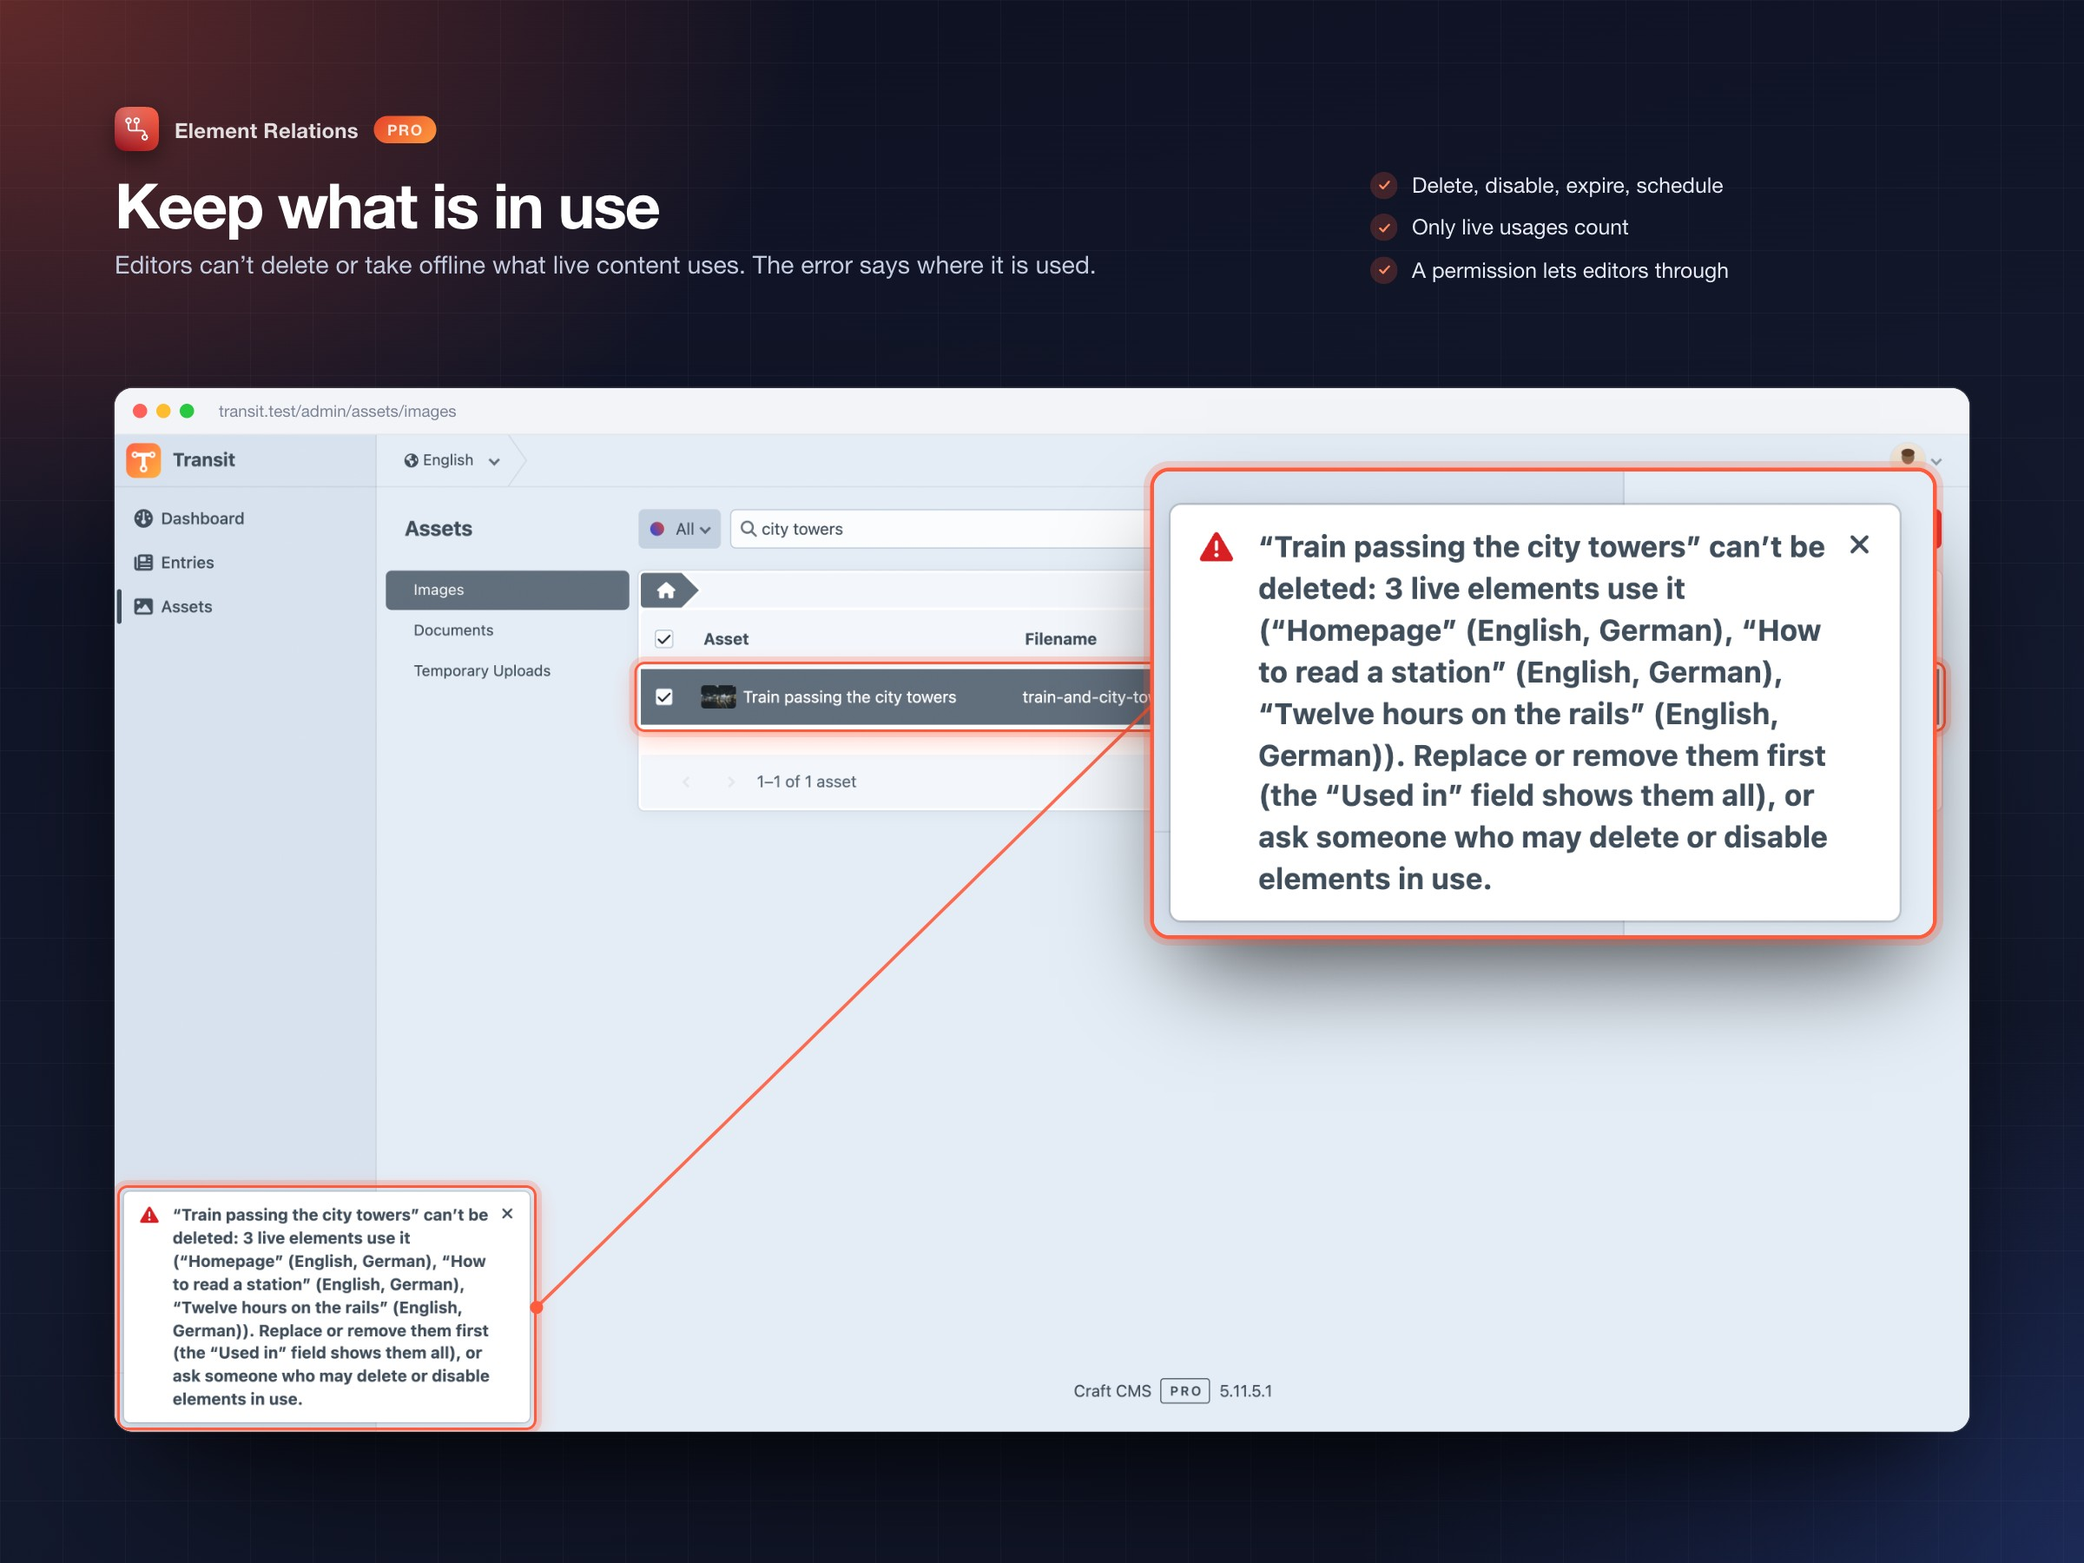
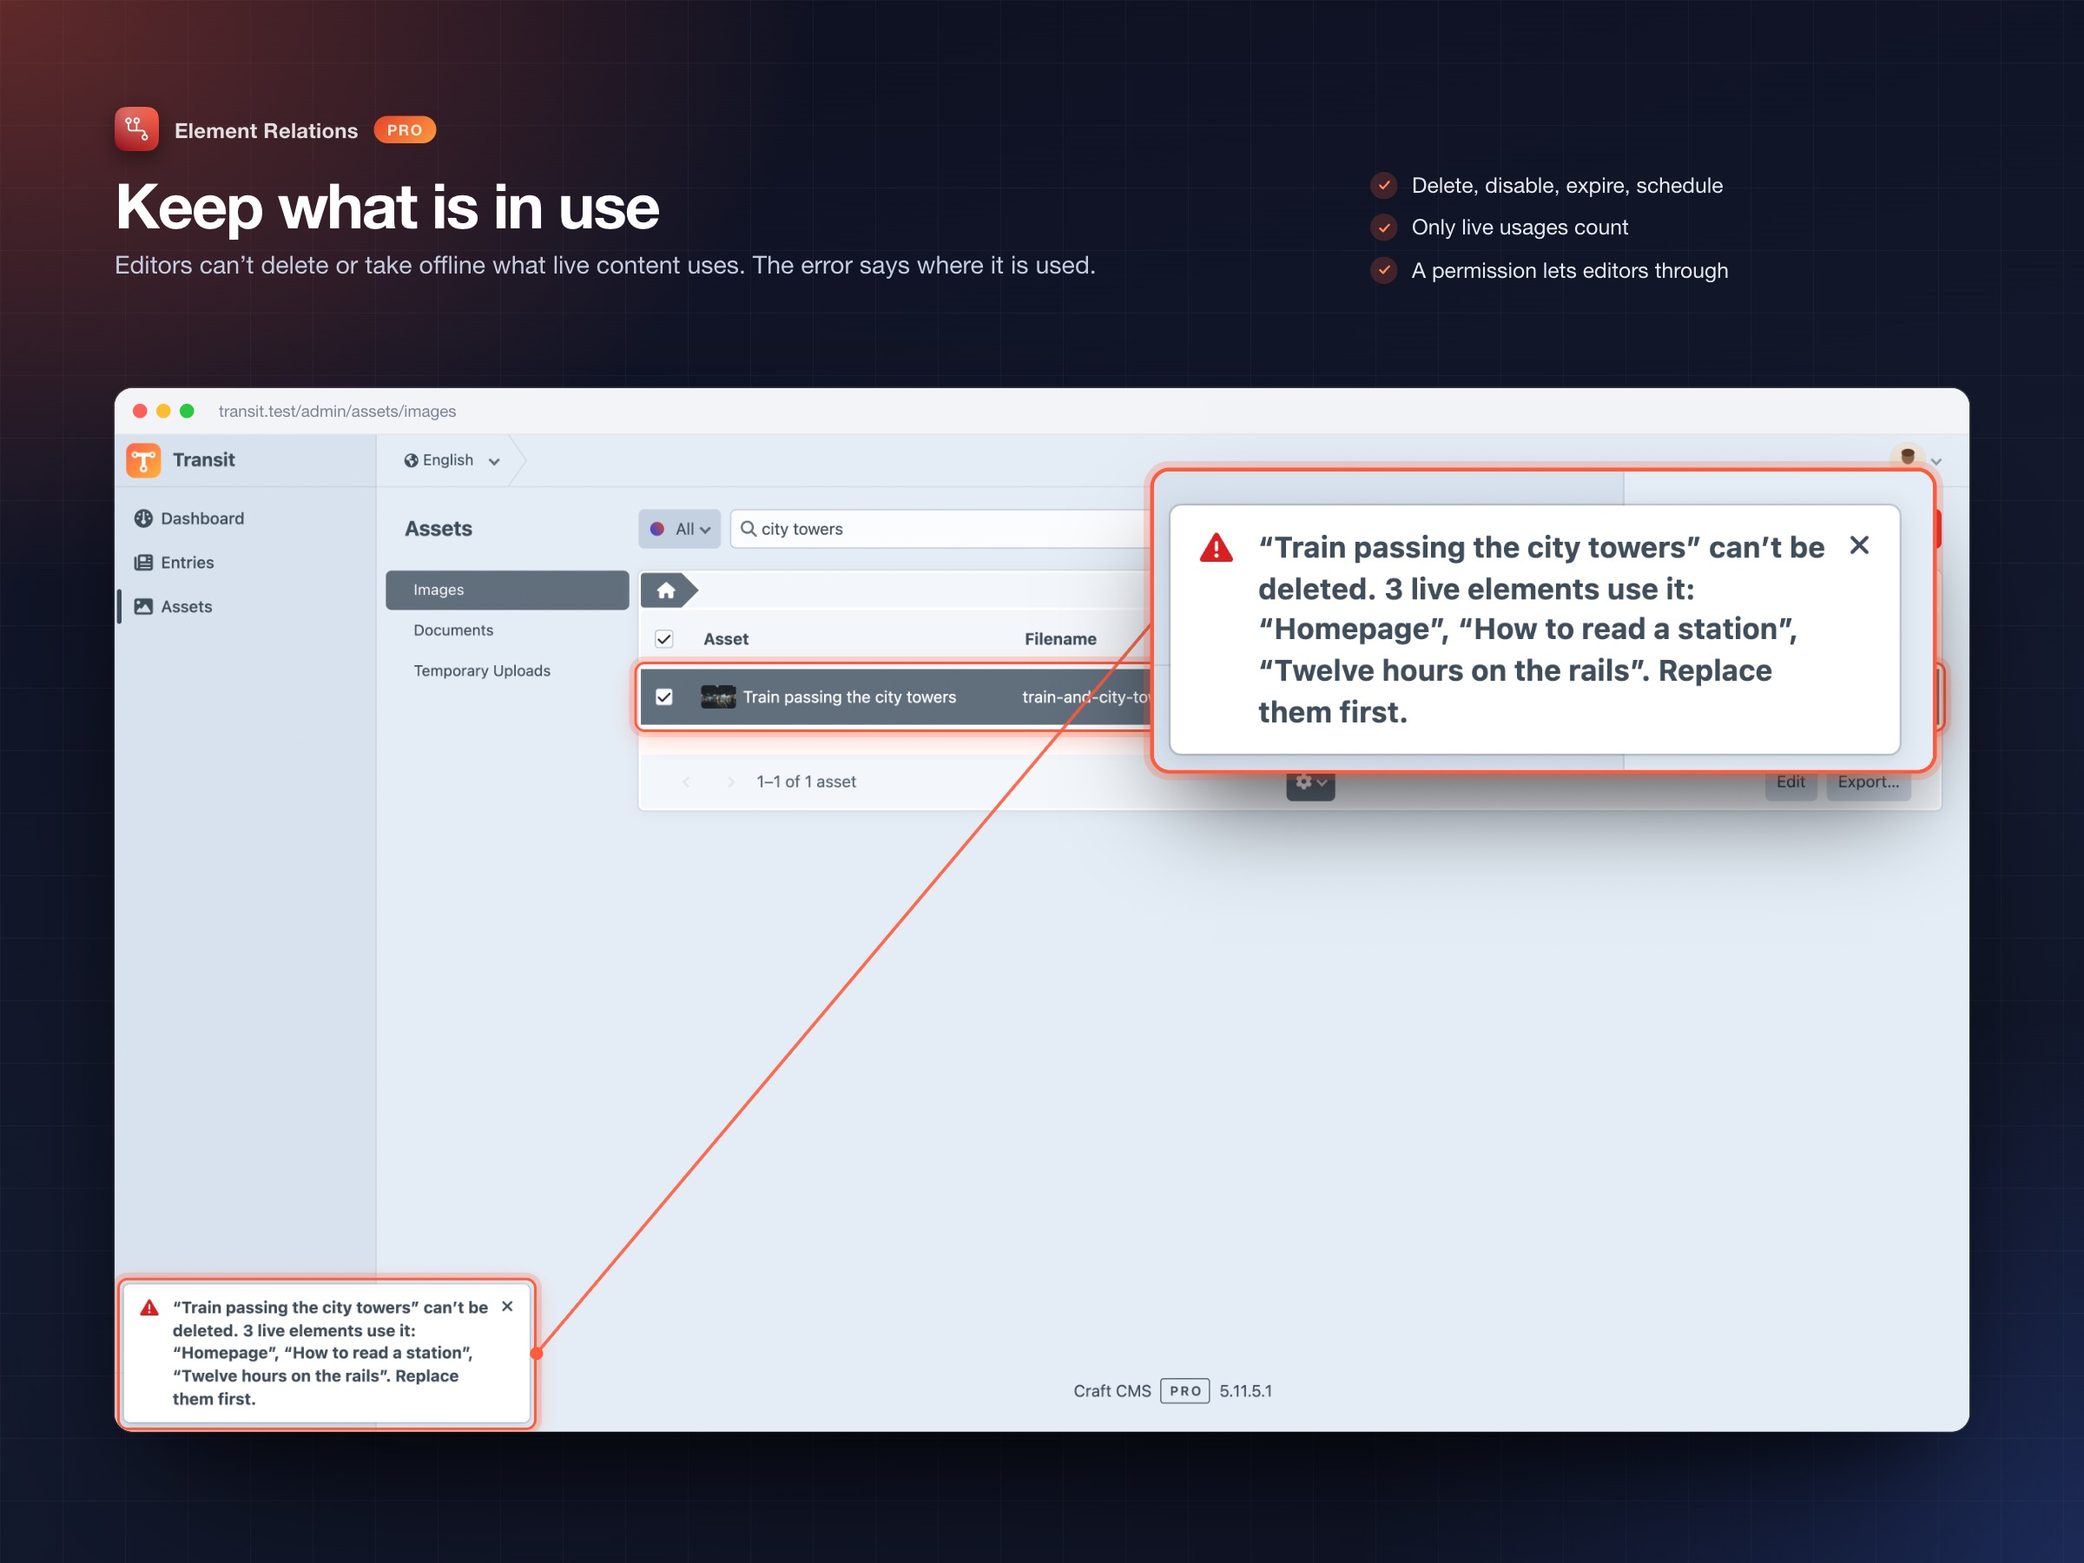
In use: shorter messages, no site after every title
The guard's errors and the delete dialog said, per title, which sites use the
element, plus a long hint; a refused disable of Hong Kong ran to six lines. Now
two sentences: what can't happen, how many live elements use it and up to three
titles (two and "and N more" when there are more), then "Replace them first."
The count already counts elements once; the site is named when the message is
about one site, and the "Used in" field lists every usage with its sites.

Claude-Session: https://claude.ai/code/session_01R6Zbz4iFYsKmuaYbTKEoLc

diff --git a/src/services/InUseGuard.php b/src/services/InUseGuard.php
@@ -26,8 +26,8 @@ use internetztube\elementRelations\models\RelationsModel;
  */
 class InUseGuard
 {
-    /** Titles named in the message. */
-    private const NAMED = 3;
+    /** Titles named in a message: all of them up to this many, else one less and “and N more”. */
+    public const NAMED = 3;
 
     public static function register(): void
     {
@@ -113,22 +113,20 @@ class InUseGuard
     }
 
     /**
-     * Live usages of the element: the number of places using it (an element in one of its sites; a page in English and
-     * German is two) and the first few, named with their site on multi-site installs. With a site, only the usages in
-     * that site (a disable for one site); plugin settings count for the element as a whole.
-     * @return array{count: int, titles: list<string>} titles quoted, e.g. “Travel slowly” (English)
+     * Live usages of the element: how many elements use it (each once, whatever sites it uses it in) and the first few
+     * titles. With a site, only the usages in that site (a disable for one site); plugin settings count for the element
+     * as a whole. The sites are left out of the titles: the message names the site when it is about one, and the
+     * "Used in" field lists every usage with its sites.
+     * @return array{count: int, titles: list<string>} titles quoted, e.g. “Travel slowly”
      */
     public static function liveUsages(ElementInterface $element, ?int $siteId = null): array
     {
         $model = (new RelationsModel((int)($element->getCanonicalId() ?? $element->id), (int)$element->siteId))
             ->withQueryFactory(fn(string $type): mixed => $type::find()); // Craft's defaults: live entries, enabled elements, no drafts
         $siteIds = $siteId === null ? [] : [$siteId];
-        $multiSite = Craft::$app->getIsMultiSite();
         $titles = [];
         foreach ($model->getElementsIterator($siteIds, self::NAMED) as $usage) {
-            // each element once; the sites it uses the element in, from the cache
-            $sites = $siteId === null ? self::siteNames($model->getElementId(), (int)$usage->id) : [$usage->getSite()->getName()];
-            $titles[] = '“' . $usage . '”' . ($multiSite ? ' (' . implode(', ', $sites) . ')' : '');
+            $titles[] = '“' . $usage . '”';
         }
         $global = $siteId === null ? $model->getGlobalUsages() : [];
         foreach (array_slice($global, 0, max(0, self::NAMED - count($titles))) as $usage) {
@@ -144,19 +142,16 @@ class InUseGuard
     }
 
     /**
-     * The names of the sites $ownerId uses $targetId in, in the sites' order.
-     * ponytail: the cache row, not the owner's status per site; an owner disabled in one site still names it
-     * @return list<string>
+     * The usages for a message: all titles when there are at most NAMED, else the first NAMED - 1 and “and N more”, so
+     * it never says “and 1 more” where the title would fit.
+     * @param list<string> $titles
      */
-    private static function siteNames(int $targetId, int $ownerId): array
+    public static function names(array $titles, int $count): string
     {
-        $siteIds = array_map(intval(...), (new \craft\db\Query())->select(['sourceSiteId'])->distinct()
-            ->from('{{%elementrelations_cache}}')->where(['targetElementId' => $targetId, 'sourcePrimaryOwnerId' => $ownerId])->column());
-        $names = [];
-        foreach (Craft::$app->getSites()->getAllSites() as $site) {
-            if (in_array((int)$site->id, $siteIds, true)) {
-                $names[] = $site->getName();
-            }
+        $shown = $count <= self::NAMED ? array_slice($titles, 0, self::NAMED) : array_slice($titles, 0, self::NAMED - 1);
+        $names = implode(', ', $shown);
+        if ($count > count($shown)) {
+            $names .= ' ' . Craft::t('element-relations', 'in-use-more', ['count' => $count - count($shown)]);
         }
         return $names;
     }
@@ -219,15 +214,11 @@ class InUseGuard
         if ($usages['count'] === 0) {
             return null;
         }
-        $names = implode(', ', $usages['titles']);
-        if ($usages['count'] > count($usages['titles'])) {
-            $names .= ' ' . Craft::t('element-relations', 'in-use-more', ['count' => $usages['count'] - count($usages['titles'])]);
-        }
         return Craft::t('element-relations', $key, [
             'element' => (string)$element,
             'count' => $usages['count'],
-            'names' => $names,
+            'names' => self::names($usages['titles'], $usages['count']),
             'site' => $siteId !== null ? (string)Craft::$app->getSites()->getSiteById($siteId)?->getName() : '',
-        ]) . ' ' . Craft::t('element-relations', 'in-use-hint');
+        ]) . ' ' . Craft::t('element-relations', 'in-use-hint', ['count' => $usages['count']]);
     }
 }

diff --git a/src/translations/en/element-relations.php b/src/translations/en/element-relations.php
@@ -83,17 +83,17 @@ return [
     'replace-button-title' => 'Element Relations: replace the element in the ticked elements',
     'permission-in-use' => 'Delete or disable elements that are in use',
     'permission-in-use-info' => 'Without it, elements that live content uses (visitors see it) can’t be deleted, disabled, expired or scheduled.',
-    'in-use-delete' => '“{element}” can’t be deleted: {count, plural, =1{one live element uses} other{# live elements use}} it ({names}).',
-    'in-use-disable' => '“{element}” can’t be disabled: {count, plural, =1{one live element uses} other{# live elements use}} it ({names}).',
-    'in-use-disable-site' => '“{element}” can’t be disabled for {site}: {count, plural, =1{one live element uses} other{# live elements use}} it there ({names}).',
-    'in-use-delete-site' => '“{element}” can’t be deleted for {site}: {count, plural, =1{one live element uses} other{# live elements use}} it there ({names}).',
-    'in-use-expire' => '“{element}” can’t expire yet: {count, plural, =1{one live element uses} other{# live elements use}} it ({names}).',
-    'in-use-schedule' => '“{element}” can’t be scheduled for later: {count, plural, =1{one live element uses} other{# live elements use}} it ({names}).',
-    'in-use-blocker-summary' => '{count, plural, =1{One live element uses} other{# live elements use}} the {numTargets, plural, =1{{type}} other{{types}}} (what visitors see): {names}.',
-    'in-use-blocker-not-allowed' => 'Replace them first; deleting it anyway needs the “Delete or disable elements that are in use” permission.',
+    'in-use-delete' => '“{element}” can’t be deleted. {count, plural, =1{One live element uses it} other{# live elements use it}}: {names}.',
+    'in-use-disable' => '“{element}” can’t be disabled. {count, plural, =1{One live element uses it} other{# live elements use it}}: {names}.',
+    'in-use-disable-site' => '“{element}” can’t be disabled for {site}. {count, plural, =1{One live element uses it there} other{# live elements use it there}}: {names}.',
+    'in-use-delete-site' => '“{element}” can’t be deleted for {site}. {count, plural, =1{One live element uses it there} other{# live elements use it there}}: {names}.',
+    'in-use-expire' => '“{element}” can’t expire yet. {count, plural, =1{One live element uses it} other{# live elements use it}}: {names}.',
+    'in-use-schedule' => '“{element}” can’t be scheduled for later. {count, plural, =1{One live element uses it} other{# live elements use it}}: {names}.',
+    'in-use-blocker-summary' => '{count, plural, =1{One live element uses} other{# live elements use}} the {numTargets, plural, =1{{type}} other{{types}}}: {names}.',
+    'in-use-blocker-not-allowed' => 'Replace them first. Deleting anyway needs the “Delete or disable elements that are in use” permission.',
     'in-use-blocker-ignore' => 'Delete anyway',
     'in-use-more' => 'and {count, plural, =1{one more} other{# more}}',
-    'in-use-hint' => 'Replace or remove them first (the “Used in” field shows them all), or ask someone who may delete or disable elements in use.',
+    'in-use-hint' => 'Replace {count, plural, =1{it} other{them}} first.',
     'replace-job-description' => 'Replacing element references',
     'replace-revision-notes' => 'Element Relations: replaced “{from}” with “{to}”',
     'replace-revision-before-notes' => 'Element Relations: state before replacing “{from}” with “{to}”',

diff --git a/dev/e2e.php b/dev/e2e.php
@@ -659,7 +659,7 @@ check($status === 400 && str_contains($json['message'] ?? '', 'can’t be disabl
 $dialog = fn(string $route) => $editorHttp->action("delete-elements/$route", ['elementType' => Entry::class, 'elementIds' => [$inUse->id], 'siteId' => $inUse->siteId]);
 if (defined(craft\base\Element::class . '::EVENT_DEFINE_DELETION_BLOCKERS')) {
     [$status, , $json] = $dialog('deletion-blockers');
-    $ours = array_values(array_filter($json['blockers'] ?? [], fn($b) => str_contains($b['summary'] ?? '', 'visitors see')));
+    $ours = array_values(array_filter($json['blockers'] ?? [], fn($b) => (bool)preg_match('/live elements? uses? the/', $b['summary'] ?? '')));
     check($status === 200 && $ours && str_contains($ours[0]['summary'], 'E2E in use source') && !array_filter($ours[0]['actions'], fn($a) => ($a['label'] ?? '') === 'Delete anyway'), "delete dialog: the usages are a blocker, without “Delete anyway” for the editor (HTTP $status: " . ($ours[0]['summary'] ?? json_encode($json['blockers'] ?? [])) . ')');
     check(str_contains($ours[0]['details'] ?? '', 'Craft.createElementIndex') || str_contains($json['bodyHtml'] ?? '', 'usesElement'), 'delete dialog: it lists the usages');
     [$status, , $json] = $dialog('delete');
@@ -713,7 +713,7 @@ if (defined(craft\base\Element::class . '::EVENT_DEFINE_DELETION_BLOCKERS')) {
     $inUse->enabled = true;
     $elements->saveElement($inUse);
     [, , $json] = $dialog('deletion-blockers');
-    $ours = array_values(array_filter($json['blockers'] ?? [], fn($b) => str_contains($b['summary'] ?? '', 'visitors see')));
+    $ours = array_values(array_filter($json['blockers'] ?? [], fn($b) => (bool)preg_match('/live elements? uses? the/', $b['summary'] ?? '')));
     check($ours && array_filter($ours[0]['actions'], fn($a) => ($a['label'] ?? '') === 'Delete anyway'), 'with the permission the dialog offers “Delete anyway”');
 }
 $inUse->enabled = true;

diff --git a/src/elements/deletionblockers/InUseDeletionBlocker.php b/src/elements/deletionblockers/InUseDeletionBlocker.php
@@ -21,9 +21,6 @@ use internetztube\elementRelations\services\InUseGuard;
  */
 class InUseDeletionBlocker extends BaseDeletionBlocker
 {
-    /** Titles named in the summary. */
-    private const NAMED = 3;
-
     private int $count = 0;
 
     /** @var list<string> */
@@ -48,7 +45,7 @@ class InUseDeletionBlocker extends BaseDeletionBlocker
             }
             $this->inUse[] = $element;
             $this->count += $usages['count'];
-            $this->titles = array_slice(array_values(array_unique([...$this->titles, ...$usages['titles']])), 0, self::NAMED);
+            $this->titles = array_slice(array_values(array_unique([...$this->titles, ...$usages['titles']])), 0, InUseGuard::NAMED);
         }
     }
 
@@ -59,10 +56,7 @@ class InUseDeletionBlocker extends BaseDeletionBlocker
 
     public function getSummary(): string
     {
-        $names = implode(', ', $this->titles);
-        if ($this->count > count($this->titles)) {
-            $names .= ' ' . Craft::t('element-relations', 'in-use-more', ['count' => $this->count - count($this->titles)]);
-        }
+        $names = InUseGuard::names($this->titles, $this->count);
         $summary = Craft::t('element-relations', 'in-use-blocker-summary', [
             'numTargets' => count($this->inUse),
             'type' => $this->inUse[0]::lowerDisplayName(),

diff --git a/dev/smoke/in-use.php b/dev/smoke/in-use.php
@@ -33,7 +33,7 @@ return function (array $ctx): void {
     if (class_exists(craft\elements\deletionblockers\BaseDeletionBlocker::class)) {
         $blocker = new internetztube\elementRelations\elements\deletionblockers\InUseDeletionBlocker(new craft\elements\ElementCollection([$unused[0], $target]), false);
         $all = InUseGuard::liveUsages($target)['count'];
-        check($blocker->isActive() && $all > 3 && str_contains($blocker->getSummary(), Craft::t('element-relations', 'in-use-more', ['count' => $all - 3])), "delete dialog: names three of the $all usages and counts the rest");
+        check($blocker->isActive() && $all > 3 && str_contains($blocker->getSummary(), Craft::t('element-relations', 'in-use-more', ['count' => $all - InUseGuard::NAMED + 1])), "delete dialog: names two of the $all usages and counts the rest");
         // used, but by nothing visitors see (a disabled entry): no blocker
         $section = Craft::$app->getEntries()->getSectionByHandle('pages');
         $offlineOnly = new Entry(['sectionId' => $section->id, 'typeId' => $section->getEntryTypes()[0]->id, 'title' => 'In use: offline only']);

diff --git a/dev/TESTS.md b/dev/TESTS.md
@@ -480,7 +480,7 @@ Generated by `dev/tests-md.php` from the last `dev/dev.sh ci` run; one line per 
 - a draft does not: it changes nothing visitors see
 - nor does a save that only propagates one already checked
 - nor a nested entry (it goes with its owner) or a trashed one
-- delete dialog: names three of the 23 usages and counts the rest
+- delete dialog: names two of the 23 usages and counts the rest
 - delete dialog: an element used only by a disabled entry is not in the way
 - delete dialog, Lite: no blocker
 - the live usages are counted and named
@@ -1650,7 +1650,7 @@ Generated by `dev/tests-md.php` from the last `dev/dev.sh ci` run; one line per 
 
 ### delete dialog: an admin sees the usages, Replace… and Delete anyway
 
-- three elements, each named once with its sites: "3 live elements use the asset (what visitors see): “Homepage” (English, German), “How to read a station” (English, German), “Twelve hours on the rails” (English, German)."
+- three elements, each named once, without their sites: "3 live elements use the asset: “Homepage”, “How to read a station”, “Twelve hours on the rails”."
 - the admin gets Replace… and Delete anyway
 
 ### editor: the delete dialog has no way past the usages
